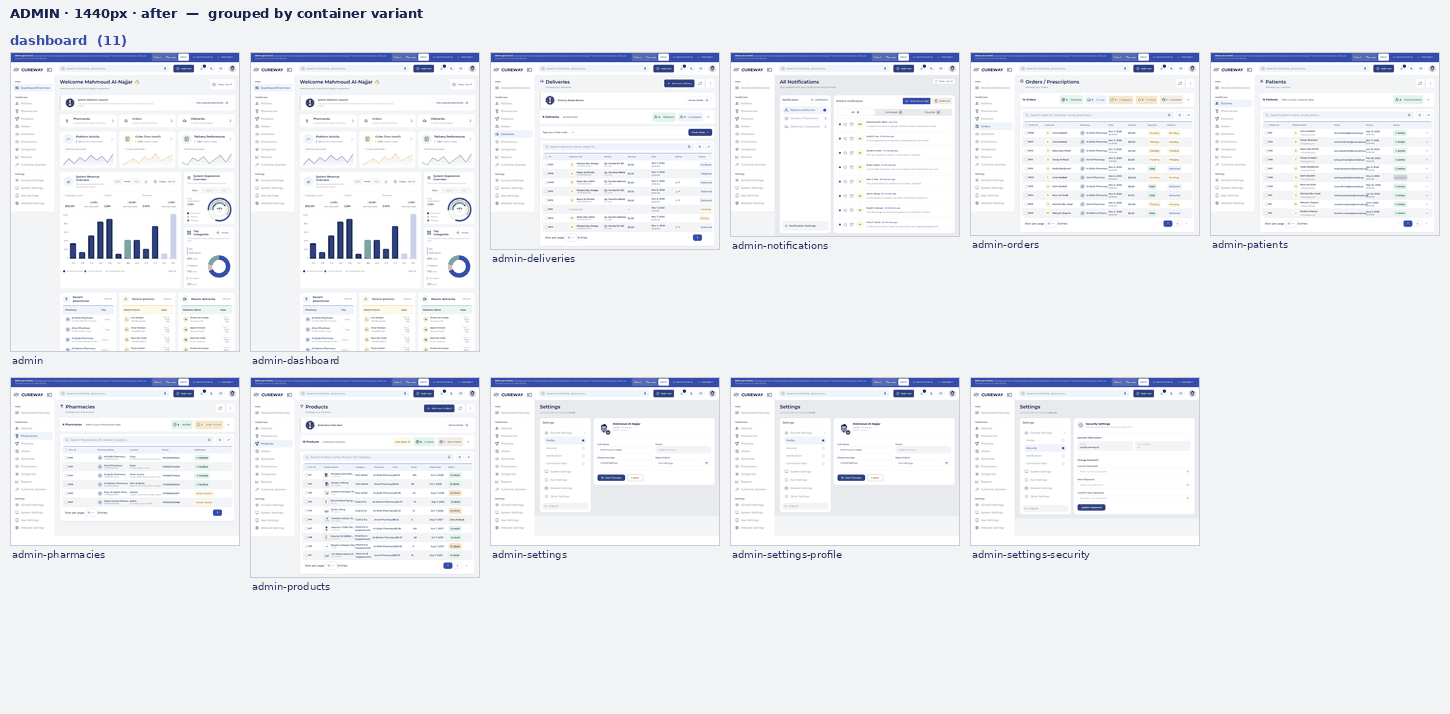
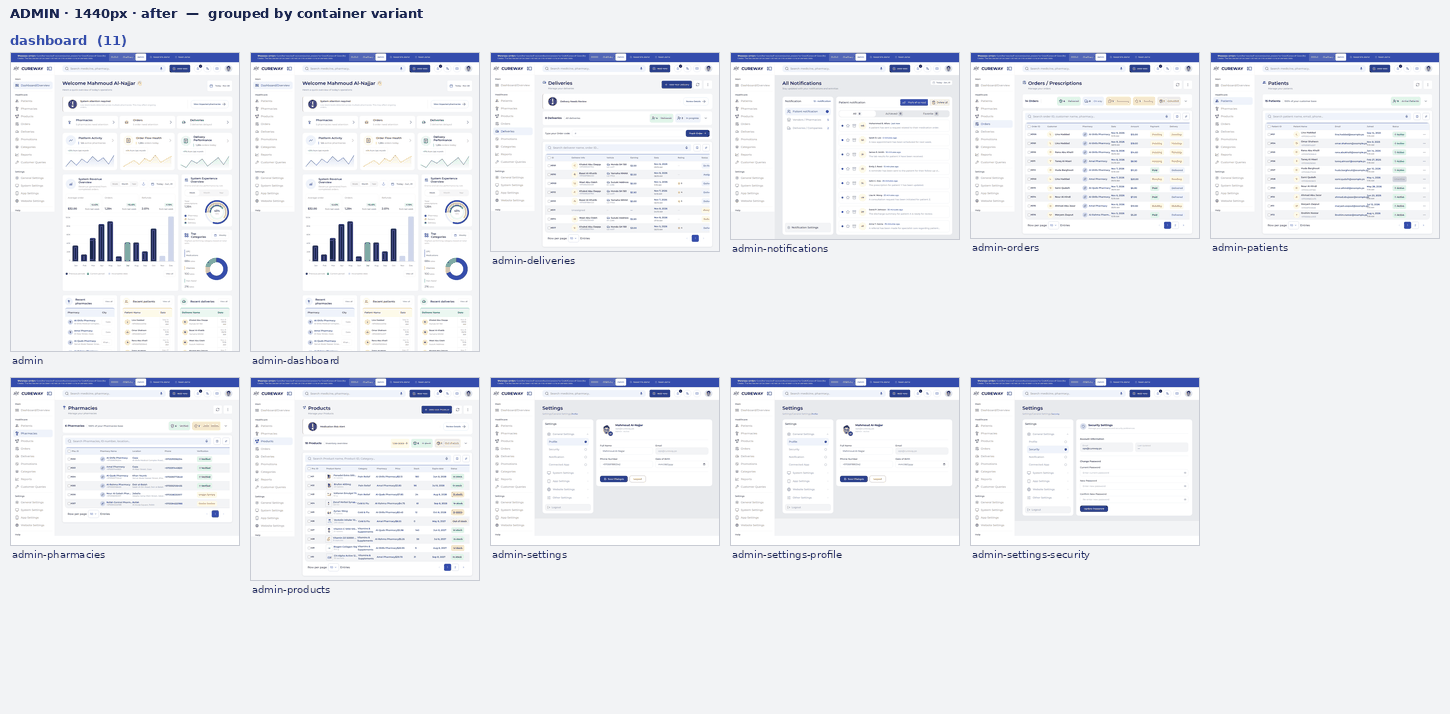
fix(pharmacy): stop the sidebar shrinking under wide content
Admin's sidebar is shrink-0; pharmacy's was not, so a wide page squeezed
it from 280px and the content edge moved — 225px and 294px instead of 328
on three routes at 1024. The main column also needed min-w-0, the same
flex rule behind the earlier horizontal-overflow bugs: without it a wide
child pushes the sidebar rather than scrolling inside its own area.

Both dashboards now measure an identical content edge at every width.

diff --git a/src/components/pharmacy/layout/Sidebar.tsx b/src/components/pharmacy/layout/Sidebar.tsx
@@ -43,7 +43,7 @@ export default function Sidebar({ open, onClose }: SidebarProps) {
       <aside
         className={`fixed top-[var(--showcase-bar-h,0px)] bottom-0 left-0 z-50 w-[280px] border-r bg-white px-6 py-6
         transition-transform
-        lg:static lg:translate-x-0 lg:min-h-screen
+        lg:static lg:translate-x-0 lg:min-h-screen lg:shrink-0
         ${open ? "translate-x-0" : "-translate-x-full"}`}
       >
         {/* Logo */}

diff --git a/src/components/pharmacy/layout/DashboardLayout.tsx b/src/components/pharmacy/layout/DashboardLayout.tsx
@@ -16,7 +16,7 @@ export default function DashboardLayout({
     <div className="flex bg-gray-50 h-[calc(100dvh-var(--showcase-bar-h,0px))] overflow-hidden">
       <Sidebar open={sidebarOpen} onClose={() => setSidebarOpen(false)} />
 
-      <div className="flex flex-col flex-1">
+      <div className="flex flex-col flex-1 min-w-0">
         <TopBar onMenuClick={() => setSidebarOpen(true)} />
 
         <main className="flex-1 overflow-y-auto">

diff --git a/docs/design-spec.md b/docs/design-spec.md
@@ -130,50 +130,90 @@ brand blue.
 
 ---
 
-## 2. Layout
+## 2. The frame
 
-### PageContainer
+One container system for all three areas, after besterra.io.
 
-One component, `src/components/shared/PageContainer.tsx`. Every page's header
-and body go inside the same instance, so they always share a left and right
-edge.
+### Tokens
 
-| Breakpoint  | Horizontal padding |
-| ----------- | -----------------: |
-| base (<768) |               16px |
-| md (≥768)   |               24px |
-| lg (≥1024)  |               32px |
+Declared in `src/styles/global.css`, consumed **only** by `PageContainer`.
+No page or component sets a page max-width or horizontal page padding.
 
-Max content width:
+| Token             | Value                       | Role                                    |
+| ----------------- | --------------------------- | --------------------------------------- |
+| `--container-max` | `105rem` (1680px)           | the frame: page chrome and page content |
+| `--container-px`  | `clamp(1.25rem, 5vw, 3rem)` | the one gutter, 20px → 48px             |
+| `--content-xl`    | 1280px                      | wide multi-column, inside the frame     |
+| `--content-lg`    | 1200px                      | standard, inside the frame              |
+| `--content-md`    | 768px                       | forms and narrow content                |
+| `--content-sm`    | 640px                       | long text, legal                        |
 
-| Variant   |      Width | Use                                        |
-| --------- | ---------: | ------------------------------------------ |
-| `default` | **1120px** | every content page in all three roles      |
-| `wide`    | **1440px** | dashboards and full-bleed data tables only |
+### Components
 
-`wide` is justified only where a page is a grid of charts and tables that would
-otherwise be squeezed: the admin dashboard, admin list pages and the pharmacy
-report. Everything else is `default`. 1120px keeps a comfortable measure for
-cards and forms; 1440px matches `--container-2xl`, which is already defined.
+- **`PageContainer`** always fills the frame. Every route uses it.
+- **`ContentColumn width="xl|lg|md|sm"`** is a narrower column _inside_ the
+  frame. It is **left-aligned** (`mr-auto`), never centred, so the page header
+  above stays at full width and the column starts on the same left edge.
+- **`FRAME` / `SHELL_RAIL`** is the same class string, exported for page chrome
+  that cannot use the component.
 
-Vertical rhythm inside the container: `py-6` (24px) at base, `py-8` (32px) from
-`md`. Sections are separated by `space-y-6` (24px).
+### Patient
 
-**Never** use `max-w-xs`, `max-w-3xl`, `max-w-4xl`, `max-w-5xl`, `max-w-6xl` or
-`max-w-7xl` — they are dead classes. Use `PageContainer`, or an explicit value
-such as `max-w-[28rem]` for a dialog or a form column.
+The showcase strip, the announcements bar, the header (logo, search, location,
+cart, avatar), the quick-action chip row, the page header and the page content
+all sit on the frame. Backgrounds and borders stay full-bleed; only the content
+is constrained, so every left and right edge in the area matches at every
+breakpoint.
 
-### Dashboard shell
+Page content fills the frame by default. Forms (upload prescription, edit
+profile, report issue, location access, order confirmation) use
+`ContentColumn width="md"`; long text (privacy, terms) uses `width="sm"`.
 
-Pharmacy and admin share one shell so the two portals match:
+Full-bleed visuals — the landing hero and promo banner — stay full-bleed, and
+their text and buttons align to the frame.
 
-- sidebar, then `PageContainer` with `wide`
-- `PageHeader` at the top of every route, with the optional icon
-- `space-y-6` between sections
-- stat cards in a `grid gap-4` (16px), tables in a card
-- the sidebar logo is **not** an `h1`; the page title is the only `h1`
+### Pharmacy and admin
 
----
+The two shells are structurally identical:
+
+|                  | Value                                                           |
+| ---------------- | --------------------------------------------------------------- |
+| Sidebar width    | **280px** (pharmacy was 256px — the whole 24px edge difference) |
+| Top bar height   | **80px**, content on the frame                                  |
+| Sidebar logo row | **80px**, matching the top bar                                  |
+| Page header      | first child of the page container, `mb-6` to content            |
+| Section spacing  | `space-y-6` (24px)                                              |
+
+The showcase strip spans the viewport above both shells and sits on the same
+frame as the patient area. Dashboard narrow content (settings and profile
+forms) follows the patient rule: a left-aligned `ContentColumn` inside the
+frame.
+
+Five pharmacy route layouts used to add their own `px-4` wrapper and a second
+scroll container on top of the shell; they are gone.
+
+## 2b. Scrollbars
+
+One style everywhere — sidebars, tables, modals, dropdowns, horizontal tab and
+chip strips, and the page itself.
+
+| Property       | Value                                                              |
+| -------------- | ------------------------------------------------------------------ |
+| Width / height | 8px                                                                |
+| Track          | transparent                                                        |
+| Thumb          | `hsl(var(--neutral) / 0.35)`, fully rounded, 2px transparent inset |
+| Thumb hover    | `hsl(var(--neutral) / 0.55)`                                       |
+
+Firefox gets `scrollbar-width: thin` and `scrollbar-color`; WebKit and Blink
+get `::-webkit-scrollbar*`. On a desktop pointer (`hover: hover and pointer:
+fine`) the thumb is transparent until the pointer is over the scroll area;
+touch devices keep their platform overlay scrollbars. **The page scrollbar is
+the exception** and stays visible, because it is the reader's position
+indicator for the document.
+
+Only the painting changes: the scrollbar keeps its width and every scroll
+input — wheel, drag, touch, keyboard — is untouched. `.scrollbar-none` is the
+opt-out for a carousel that must never show one.
 
 ## 3. PageHeader
 
@@ -370,91 +410,36 @@ it does not change every patient page at once.
 
 ---
 
-## 9. Route → page type → container variant
+## 9. Route → page type → container
 
-Every route in all three roles. Pages of the same type share one variant and
-therefore land on identical left and right edges at every breakpoint. No page
-sets its own max-width.
+Every route fills the frame. The "column" column is the narrower
+`ContentColumn` inside it, where a page has one; `—` means the page fills the
+frame.
 
-| Variant     | Max width |                         Measured content edge @1440 |        @390 |
-| ----------- | --------: | --------------------------------------------------: | ----------: |
-| `list`      |    1120px |                                  x=192, 1056px wide | x=16, 358px |
-| `detail`    |     960px |                                        x=272, 896px | x=16, 358px |
-| `form`      |     880px |                                        x=312, 816px | x=16, 358px |
-| `account`   |     960px |                                        x=272, 896px | x=16, 358px |
-| `auth`      |    1280px |                 inside the split-screen form column | x=16, 358px |
-| `dashboard` |    1440px | x=288 (pharmacy) / x=312 (admin), after the sidebar |        x=16 |
-
-Horizontal padding is 16 / 24 / 32 at base / md / lg for every variant.
-
-### Patient
-
-| Route                     | Page type                  | Variant                                                                 |
-| ------------------------- | -------------------------- | ----------------------------------------------------------------------- |
-| `/`                       | landing (marketing)        | `list` for the content block; the promo banner and hero stay full-bleed |
-| `/medicines`              | listing                    | `list`                                                                  |
-| `/categories`             | listing                    | `list`                                                                  |
-| `/categories/[id]`        | listing                    | `list`                                                                  |
-| `/pharmacies`             | listing                    | `list`                                                                  |
-| `/search`                 | listing                    | `list`                                                                  |
-| `/profile/saved-medicine` | listing                    | `list`                                                                  |
-| `/cart`                   | purchase flow (two-column) | `list`                                                                  |
-| `/checkout`               | purchase flow (two-column) | `list`                                                                  |
-| `/medicines/[id]`         | detail                     | `detail`                                                                |
-| `/pharmacies/[id]`        | detail                     | `detail`                                                                |
-| `/prescriptions`          | form / flow                | `form`                                                                  |
-| `/profile/edit-profile`   | form / flow                | `form`                                                                  |
-| `/report-issue`           | form / flow                | `form`                                                                  |
-| `/location-access`        | form / flow                | `form`                                                                  |
-| `/Orderconfirmation`      | form / flow                | `form`                                                                  |
-| `/profile`                | account                    | `account`                                                               |
-| `/profile/history`        | account                    | `account`                                                               |
-| `/orders`                 | account                    | `account`                                                               |
-| `/notifications`          | account                    | `account`                                                               |
-| `/help`                   | account                    | `account`                                                               |
-| `/privacy`                | account                    | `account`                                                               |
-| `/terms`                  | account                    | `account`                                                               |
-
-### Auth
-
-`/auth`, `/auth/sign-in`, `/auth/sign-up`, `/auth/verify-phone`,
-`/auth/verify-otp`, `/auth/registration-submitted`, `/auth/forgot-password`,
-`/auth/forgot-password/verify`, `/auth/forgot-password/new-password`,
-`/auth/pharmacy/sign-in`, `/auth/pharmacy/sign-up` — all **`auth`**, applied
-once in `AuthShell`'s form column.
-
-### Pharmacy
-
-`/pharmacy`, `/pharmacy/home`, `/pharmacy/orders`, `/pharmacy/orders/[orderId]`,
-`/pharmacy/inventory`, `/pharmacy/inventory/[medicineId]`,
-`/pharmacy/notifications`, `/pharmacy/profile`, `/pharmacy/report` — all
-**`dashboard`**, applied once in `DashboardLayout`.
-
-### Admin
-
-`/admin`, `/admin/dashboard`, `/admin/patients`, `/admin/pharmacies`,
-`/admin/orders`, `/admin/deliveries`, `/admin/products`, `/admin/notifications`,
-`/admin/settings`, `/admin/settings/profile`, `/admin/settings/security` — all
-**`dashboard`**, applied once in `PageShell` (and in the two pages that render
-their own stagger container).
-
-### Judgment calls
-
-- **Cart and checkout are `list`, not `form`.** Both are two-column at `xl`;
-  an 880px form column would cramp the order summary beside the items. They
-  share one variant with each other, which is what the rule asks for.
-- **`form` is 880px, not 720px**, so a two-column step inside a flow still has
-  room.
-- **`account` and `detail` are both 960px.** They are separate names because
-  they answer different questions and may diverge; today they measure the same.
-- **The landing page keeps its full-bleed promo banner and hero.** Only its
-  bordered content block sits on the container, so it aligns with the shell and
-  with every listing page.
-- **The dashboard content edge differs by 24px between pharmacy and admin**
-  because their sidebars are different widths. The containers are identical;
-  only the space left over differs.
-
----
+| Route                             | Page type     | Column                                                    |
+| --------------------------------- | ------------- | --------------------------------------------------------- |
+| `/`                               | landing       | — (content block on the frame; hero and promo full-bleed) |
+| `/medicines`                      | listing       | —                                                         |
+| `/categories`, `/categories/[id]` | listing       | —                                                         |
+| `/pharmacies`                     | listing       | —                                                         |
+| `/search`                         | listing       | —                                                         |
+| `/profile/saved-medicine`         | listing       | —                                                         |
+| `/cart`, `/checkout`              | purchase flow | — (two-column)                                            |
+| `/medicines/[id]`                 | detail        | —                                                         |
+| `/pharmacies/[id]`                | detail        | —                                                         |
+| `/orders`                         | account       | —                                                         |
+| `/notifications`                  | account       | —                                                         |
+| `/profile`, `/profile/history`    | account       | —                                                         |
+| `/help`                           | account       | `md` (768px)                                              |
+| `/privacy`, `/terms`              | long text     | `sm` (640px)                                              |
+| `/prescriptions`                  | form          | `md` (768px)                                              |
+| `/profile/edit-profile`           | form          | `md`                                                      |
+| `/report-issue`                   | form          | `md`                                                      |
+| `/location-access`                | form          | `md`                                                      |
+| `/Orderconfirmation`              | form          | `md`                                                      |
+| all 11 `/auth/*`                  | auth          | own split-screen shell, frame in the form column          |
+| all 9 `/pharmacy/*`               | dashboard     | — (settings/profile forms: `md`)                          |
+| all 11 `/admin/*`                 | dashboard     | — (settings forms: `md`)                                  |
 
 ## 10. Rollout result
 
